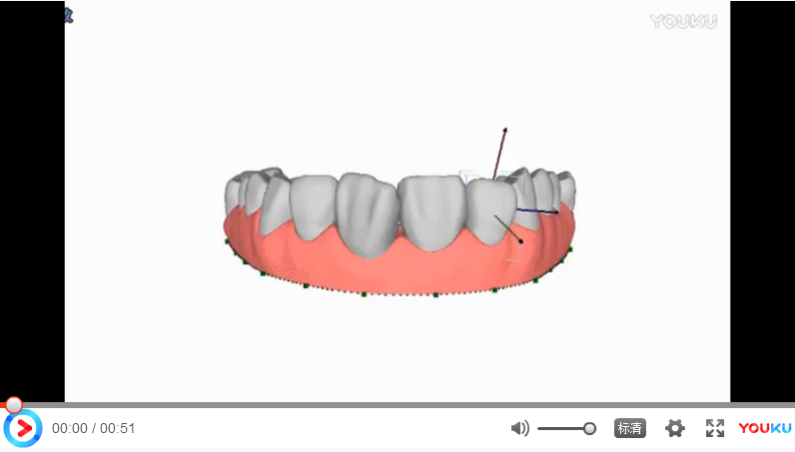
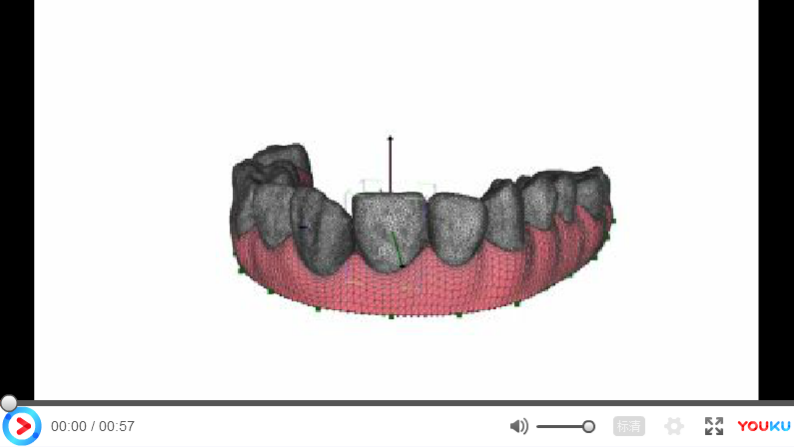
1

Changed region(s): [[0.0, 0.0, 1.0, 1.0], [0.272, 0.2908, 0.7859, 0.7271]]

diff --git a/js/waterfall.js b/js/waterfall.js
@@ -21,10 +21,10 @@
       description: '基于meshlab实现最经典网格 <a href ="https://drive.google.com/file/d/0Bz89KcgZMI0RUlhnc3NkZWV0TnM/view"target="_blank">补洞算法</a>，并对其进行改进，加入bridge分割洞的功能，从而实现网格的局部修复。'
     },{
       demo_link: '/2017/06/03/template-based-reconstruction/',
-      img_link: '/images/demos/tooth_repair2.gif',
-      title: '牙齿侧面修复',
-      core_tech: '3D Mesh Repair',
-      description: '基于meshlab实现最经典网格 <a href ="https://drive.google.com/file/d/0Bz89KcgZMI0RUlhnc3NkZWV0TnM/view"target="_blank">补洞算法</a>，并对其进行改进，加入bridge分割洞的功能，从而实现网格的局部修复。'
+      img_link: '/images/demos/template_based_reconstruction2.gif',
+      title: '基于模板的牙根重建',
+      core_tech: 'Template-based 3D Mesh Reconstruction',
+      description: '基于模板的牙根重建，可以修复牙齿和重建牙根的效果'
     }, {
       demo_link: '/2017/06/04/virtual-gum-construction',
       img_link: '/images/demos/virtual_gum_construction2.gif',

diff --git a/_posts/projects/2017-06-03-template-based-reconstruction.md b/_posts/projects/2017-06-03-template-based-reconstruction.md
@@ -10,7 +10,7 @@ author: Tandy
 * content
 {:toc}
 
-这是一个基于模板的牙根重建的Demo：
+这是一个基于模板的牙根重建Demo：
 
 ![]({{ site.baseurl }}/images/demos/template_based_reconstruction2.gif)
 
@@ -26,13 +26,13 @@ style="position: relative;
 width:100%;
 padding-bottom:56.25%; 
 height:0;">
-<iframe style="position: absolute;top: 0;left: 0;width: 100%;height: 100%;"  src="https://www.youtube.com/embed/NakXYXscXe0" frameborder="0" allowfullscreen></iframe>
+<iframe style="position: absolute;top: 0;left: 0;width: 100%;height: 100%;"  src="https://www.youtube.com/embed/Dc87xnxr9WM" frameborder="0" allowfullscreen></iframe>
 </div>
 </div>
 
 - 视频看不了，试试下面的
 
-[![点这里播放视频]({{ site.baseurl }}/images/demos/virtual_gum_deformation2.png)](http://player.youku.com/embed/XMjgwNjUwMzg0NA==)
+[![点这里播放视频]({{ site.baseurl }}/images/demos/template_based_reconstruction2.png)](http://player.youku.com/embed/XMjgxNDAwNzQ4MA==)
 
 <div style="max-width:10000px; margin:0 auto 10px;" >
 <div 
@@ -40,6 +40,6 @@ style="position: relative;
 width:100%;
 padding-bottom:56.25%; 
 height:0;">
-<iframe style="position: absolute;top: 0;left: 0;width: 100%;height: 100%;"  src="http://player.youku.com/embed/XMjgwNjUwMzg0NA==" frameborder="0" allowfullscreen></iframe>
+<iframe style="position: absolute;top: 0;left: 0;width: 100%;height: 100%;"  src="http://player.youku.com/embed/XMjgxNDAwNzQ4MA==" frameborder="0" allowfullscreen></iframe>
 </div>
 </div>

diff --git a/_posts/projects/2017-06-05-virtual-gum-deformation.md b/_posts/projects/2017-06-05-virtual-gum-deformation.md
@@ -32,7 +32,7 @@ height:0;">
 
 - 视频看不了，试试下面的
 
-[![点这里播放视频]({{ site.baseurl }}/images/demos/virtual_gum_deformation2.png)](http://player.youku.com/embed/XMjgwNjUwMzg0NA==)
+[![点这里播放视频]({{ site.baseurl }}/images/demos/virtual_gum_deformation2.png)](http://player.youku.com/embed/XMjgxNDAyNjYwOA==)
 
 <div style="max-width:10000px; margin:0 auto 10px;" >
 <div 
@@ -40,6 +40,6 @@ style="position: relative;
 width:100%;
 padding-bottom:56.25%; 
 height:0;">
-<iframe style="position: absolute;top: 0;left: 0;width: 100%;height: 100%;"  src="http://player.youku.com/embed/XMjgwNjUwMzg0NA==" frameborder="0" allowfullscreen></iframe>
+<iframe style="position: absolute;top: 0;left: 0;width: 100%;height: 100%;"  src="http://player.youku.com/embed/XMjgxNDAyNjYwOA==" frameborder="0" allowfullscreen></iframe>
 </div>
 </div>
